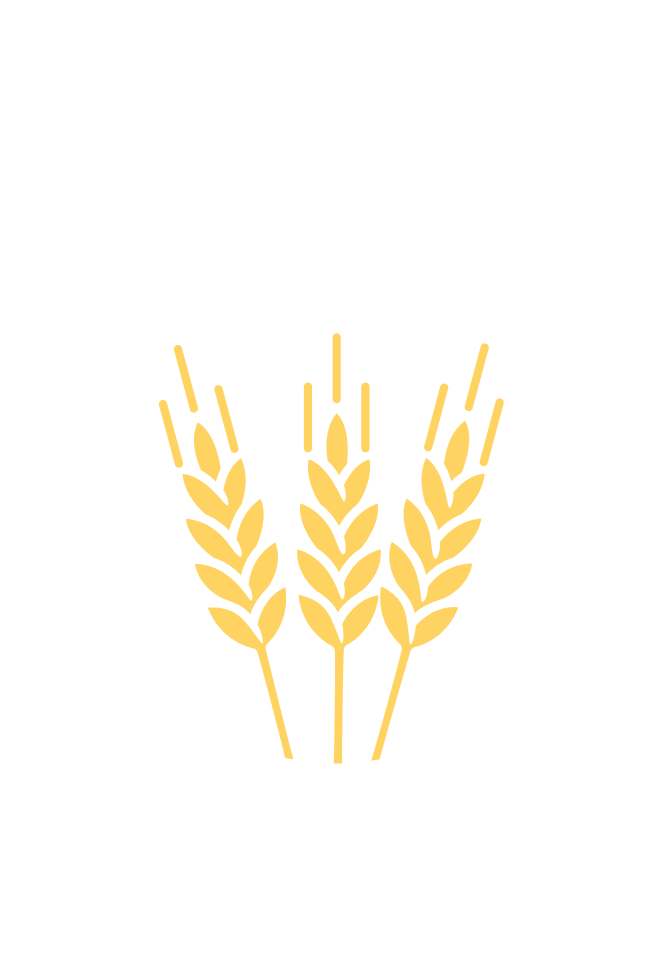
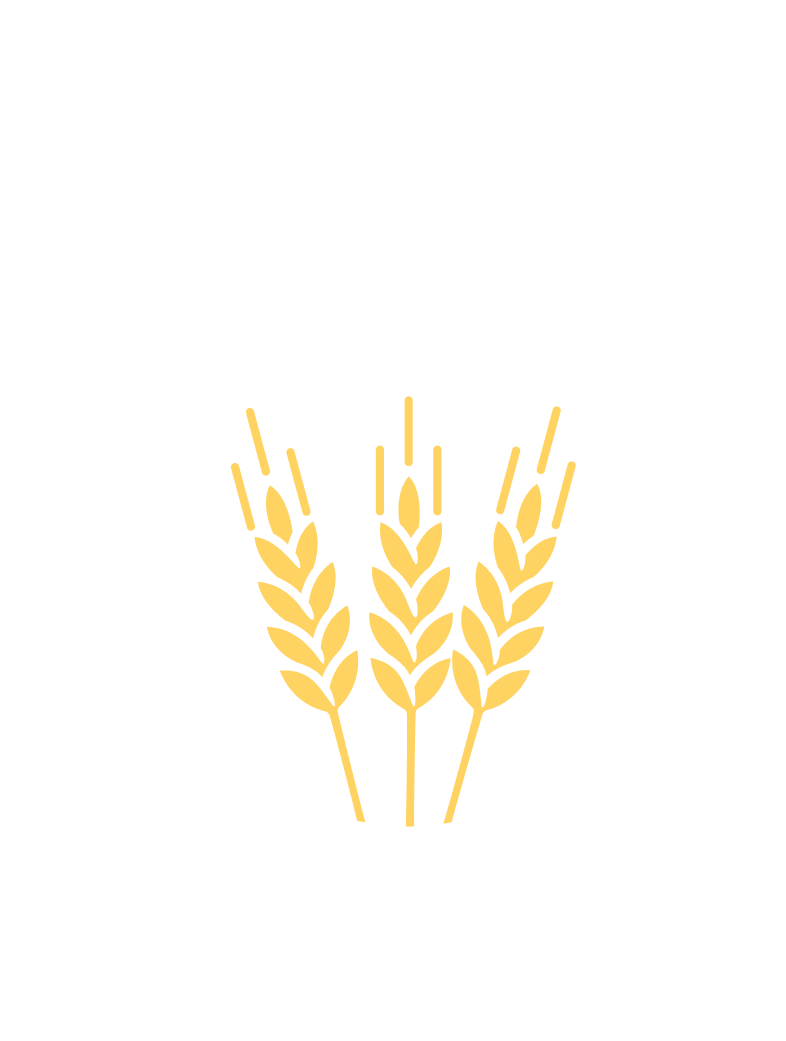
modified journey carousel"

Changed region(s): [[0.2402, 0.3374, 0.7508, 0.7975], [0.2402, 0.3374, 0.2703, 0.3681]]

diff --git a/src/screens/JourneyScreen.js b/src/screens/JourneyScreen.js
@@ -21,7 +21,9 @@ const ItemHeight = 600.0;
 const NumItems = 100;
 const Items = [
   {id:1,icon:require('../../assets/journey/journeyIcon_1.png'),image:require('../../assets/journey/journeyCard_1.png')},
-  {id:2,icon:require('../../assets/journey/journeyIcon_2.png'),image:require('../../assets/journey/journeyCard_2.png')},
+  {id:2,icon:require('../../assets/journey/journeyIcon_2.png'),image:require('../../assets/journey/journeyCard_1.png')},
+  {id:3,icon:require('../../assets/journey/journeyIcon_2.png'),image:require('../../assets/journey/journeyCard_1.png')},
+  {id:4,icon:require('../../assets/journey/journeyIcon_2.png'),image:require('../../assets/journey/journeyCard_1.png')}
 ];
 
 for(var i = 0; i < NumItems; i++) {
@@ -44,17 +46,19 @@ class JourneyScreen extends React.Component {
             justifyContent: 'center',
             backgroundColor: 'transparent'
           }}>
-          <ScrollView showsVerticalScrollIndicator = {false}>
-            <View style = {{paddingBottom:50}}>
-              <Image style={{alignSelf:'center', width:222,height:322}} resizeMode="cover"
-                source={item.icon} />
-            </View>
-            <View style = {{paddingBottom:200}}>
-            <Image style={{alignSelf:'center', width:277,height:407}} resizeMode="cover"
-              source={item.image} />
-            </View>
+            <ScrollView showsVerticalScrollIndicator = {false}>
 
-                </ScrollView>
+              <View style = {{paddingBottom:50}}>
+                <Image style={{alignSelf:'center', width:786/3,height:1041/3}} resizeMode="cover"
+                  source={item.icon} />
+              </View>
+
+              <View style = {{paddingBottom:200}}>
+              <Image style={{alignSelf:'center', width:894/3,height:7344/3}} resizeMode="cover"
+                source={item.image} />
+              </View>
+
+            </ScrollView>
           </View>
         );
       }

diff --git a/src/styles/avabottommenu.js b/src/styles/avabottommenu.js
@@ -83,6 +83,7 @@ var styles = StyleSheet.create({
         fontFamily: 'trefoil-sans-regular',
         position: 'absolute',
         top: 15,
+        alignSelf:'center',
         zIndex: 2,
 
         fontSize: 12,
